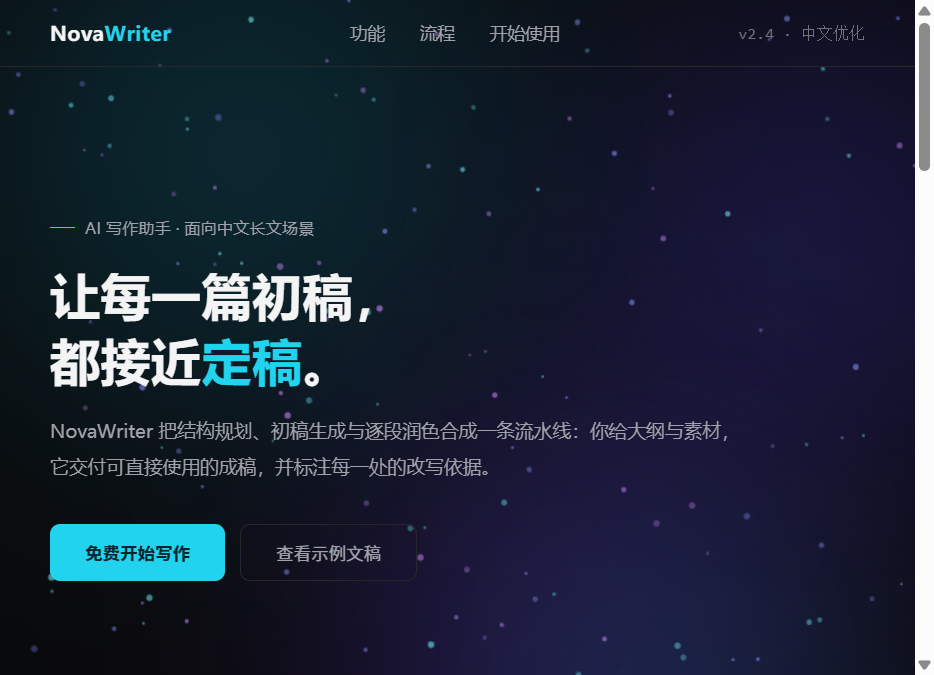
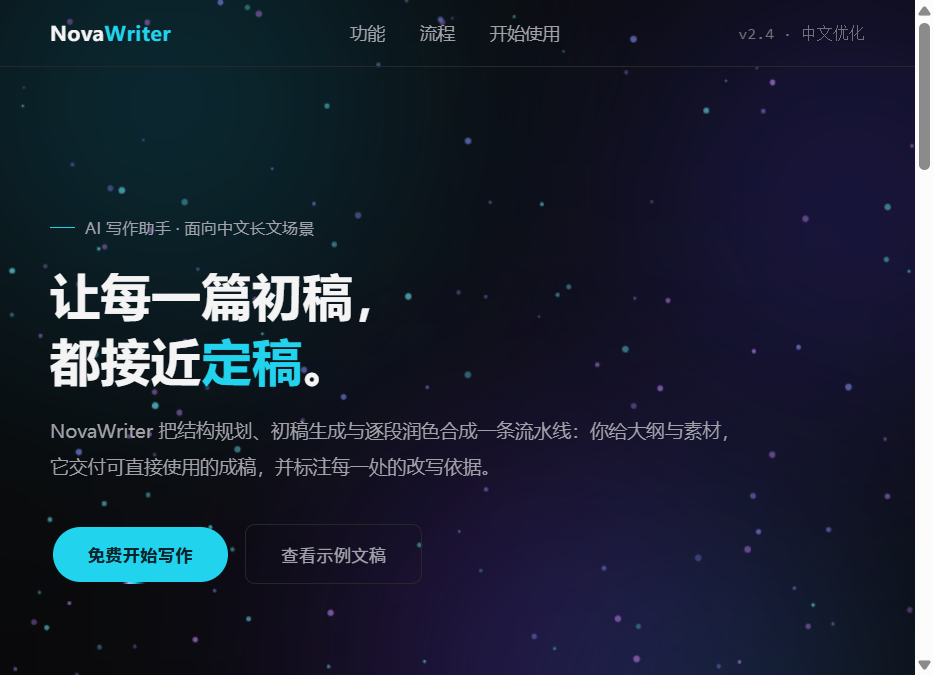
feat: after 页补齐 React Bits 五类组件等效 + 新增分类覆盖度规则
- after 页新增：StarBorder 星光描边按钮 / SpotlightCard 聚光卡片 / AnimatedContent 分区块滚动进场（vanilla 等效）
- SKILL.md 整页构建 + recipes 通用规则新增「分类覆盖度自查」：整页交付须覆盖五大类中至少 4 类
- README 差异拆解表扩充至 10 行，覆盖五大类对应关系
- after 截图更新为 1440 极光版

diff --git a/demo/comparison/after.html b/demo/comparison/after.html
@@ -27,7 +27,7 @@
   @keyframes drift3 { to { transform: translate(90px, -110px) scale(1.15); } }
   #bg canvas { position: absolute; inset: 0; width: 100%; height: 100%; display: block; }
   #bg .veil { position: absolute; inset: 0; background: rgba(9, 9, 11, .3); }
-  @media (prefers-reduced-motion: reduce) { .blob { animation: none; } .blobs { transition: none; } }
+  @media (prefers-reduced-motion: reduce) { .blob { animation: none; } .blobs { transition: none; } .star::before { animation: none; opacity: .5; } [data-reveal] { opacity: 1; transform: none; } }
   .page { position: relative; z-index: 1; }
 
   .nav { display: flex; justify-content: space-between; align-items: center; padding: 16px 40px; border-bottom: 1px solid var(--line); }
@@ -50,6 +50,21 @@
   .btn-primary:hover { filter: brightness(1.1); }
   .btn-ghost { background: transparent; color: var(--muted); border: 1px solid var(--line); padding: 12px 28px; border-radius: 8px; font-size: 14px; cursor: pointer; }
   .btn-ghost:hover { color: var(--text); border-color: var(--dim); }
+
+  /* 按钮强调：React Bits「Star Border」等效（星光沿轮廓巡游） */
+  .star { position: relative; display: inline-flex; padding: 2px; border-radius: 999px; overflow: hidden; }
+  .star::before { content: ""; position: absolute; inset: -60%; background: conic-gradient(from 0deg, transparent 0deg 318deg, #22d3ee 340deg, #a5b4fc 350deg, transparent 360deg); animation: starSpin 4s linear infinite; }
+  .star .btn-primary { position: relative; z-index: 1; border-radius: 999px; }
+  @keyframes starSpin { to { transform: rotate(360deg); } }
+
+  /* 卡片聚光：React Bits「Spotlight Card」等效（光斑跟随指针） */
+  .spot { position: relative; overflow: hidden; }
+  .spot::before { content: ""; position: absolute; inset: 0; background: radial-gradient(280px circle at var(--mx, 50%) var(--my, 50%), rgba(34, 211, 238, .13), transparent 70%); opacity: 0; transition: opacity .25s; pointer-events: none; }
+  .spot:hover::before { opacity: 1; }
+
+  /* 分区块滚动进场：React Bits「Animated Content」等效（块级，非逐卡） */
+  [data-reveal] { opacity: 0; transform: translateY(26px); transition: opacity .7s ease, transform .7s cubic-bezier(.2, .8, .2, 1); }
+  [data-reveal].in { opacity: 1; transform: none; }
 
   /* 数据条：React Bits「Count Up」等效（进入视口滚动计数） */
   .stats { display: grid; grid-template-columns: repeat(4, 1fr); gap: 16px; max-width: 1040px; margin: 0 auto; padding: 0 40px 88px; }
@@ -106,12 +121,12 @@
       </h1>
       <p class="sub">NovaWriter 把结构规划、初稿生成与逐段润色合成一条流水线：你给大纲与素材，它交付可直接使用的成稿，并标注每一处的改写依据。</p>
       <div class="btns">
-        <button class="btn-primary">免费开始写作</button>
+        <span class="star"><button class="btn-primary">免费开始写作</button></span>
         <button class="btn-ghost">查看示例文稿</button>
       </div>
     </header>
 
-    <div class="stats">
+    <div class="stats" data-reveal>
       <div class="stat"><b class="mono" data-count="42" data-suffix=" 秒">0 秒</b><span>千字初稿平均耗时</span></div>
       <div class="stat"><b class="mono" data-count="60" data-prefix="-" data-suffix="%">-0%</b><span>返工修改轮次</span></div>
       <div class="stat"><b class="mono" data-count="12" data-suffix=" 万">0 万</b><span>月活写作者</span></div>
@@ -121,18 +136,18 @@
     <section class="section" id="features">
       <h2>为长文写作设计的三件事</h2>
       <p class="sub">不做万能生成器，只把中文长文里最耗时的三段流程做透。</p>
-      <div class="features">
-        <div class="feature">
+      <div class="features" data-reveal>
+        <div class="feature spot">
           <span class="tag">核心</span>
           <h3>结构先行的成稿流水线</h3>
           <p>先与你确认大纲与论点顺序，再逐段生成。每段附「写作意图」标注：哪句是事实引用、哪句是论证展开、哪句建议你亲自改写——初稿不再是一团需要重新拆解的墨迹。</p>
         </div>
-        <div class="feature">
+        <div class="feature spot">
           <span class="tag">协作</span>
           <h3>逐段批注式润色</h3>
           <p>像编辑一样在段落旁给出改写建议，接受或驳回均会回写训练偏好。</p>
         </div>
-        <div class="feature wide">
+        <div class="feature spot wide">
           <span class="tag">溯源</span>
           <h3>每一句都有出处</h3>
           <p>所有事实性陈述强制挂载引用来源，点击即可核验原文。没有来源的句子会被明确标记为「AI 推断」，而不是混在正文里冒充事实——这是我们把「可信」放在「流畅」前面的原因。</p>
@@ -143,7 +158,7 @@
     <section class="section" id="how">
       <h2>三步上手</h2>
       <p class="sub">从空白文档到可交付初稿，平均一次会话内完成。</p>
-      <div class="steps">
+      <div class="steps" data-reveal>
         <div class="step"><span class="no">STEP 1</span><h3>投喂素材</h3><p>粘贴资料、拖入文档或只给一句话主题，自动整理为结构化大纲。</p></div>
         <div class="step"><span class="no">STEP 2</span><h3>确认大纲</h3><p>拖拽调整章节顺序与详略权重，AI 按你确认的结构展开成稿。</p></div>
         <div class="step"><span class="no">STEP 3</span><h3>逐段定稿</h3><p>在批注模式下逐段接受润色，导出为 Markdown / Word / 公众号格式。</p></div>
@@ -153,12 +168,12 @@
     <section class="cta" id="cta">
       <h2>今天就把下一份长文交给它</h2>
       <p>免费额度无需绑定支付方式，导出不加锁。</p>
-      <button class="btn-primary">免费开始写作</button>
+      <span class="star"><button class="btn-primary">免费开始写作</button></span>
     </section>
 
     <footer>
       <span>© 2026 NovaWriter</span>
-      <span class="credit">动效由 React Bits 组件驱动：<a href="https://www.reactbits.dev/backgrounds/particles">Particles</a> · <a href="https://www.reactbits.dev/text-animations/decrypted-text">DecryptedText</a> · <a href="https://www.reactbits.dev/text-animations/count-up">CountUp</a>（本页为静态等效演示）</span>
+      <span class="credit">动效由 React Bits 组件驱动：<a href="https://www.reactbits.dev/backgrounds/particles">Particles</a> · <a href="https://www.reactbits.dev/text-animations/decrypted-text">DecryptedText</a> · <a href="https://www.reactbits.dev/text-animations/count-up">CountUp</a> · <a href="https://www.reactbits.dev/animations/animated-content">AnimatedContent</a> · <a href="https://www.reactbits.dev/animations/star-border">StarBorder</a> · <a href="https://www.reactbits.dev/components/spotlight-card">SpotlightCard</a>（本页为静态等效演示）</span>
     </footer>
   </div>
 
@@ -260,6 +275,23 @@
     });
   }, { threshold: .6 });
   document.querySelectorAll('[data-count]').forEach(function (el) { io.observe(el); });
+
+  /* ---- 卡片聚光（SpotlightCard 等效）：光斑跟随指针 ---- */
+  document.querySelectorAll('.spot').forEach(function (el) {
+    el.addEventListener('mousemove', function (e) {
+      var r = el.getBoundingClientRect();
+      el.style.setProperty('--mx', (e.clientX - r.left) + 'px');
+      el.style.setProperty('--my', (e.clientY - r.top) + 'px');
+    });
+  });
+
+  /* ---- 分区块滚动进场（AnimatedContent 等效，块级） ---- */
+  var ro = new IntersectionObserver(function (entries) {
+    entries.forEach(function (e) {
+      if (e.isIntersecting) { e.target.classList.add('in'); ro.unobserve(e.target); }
+    });
+  }, { threshold: .15 });
+  document.querySelectorAll('[data-reveal]').forEach(function (el) { ro.observe(el); });
 })();
 </script>
 </body>

diff --git a/README.md b/README.md
@@ -42,7 +42,11 @@ AI 写 React 动效页面有三大高频翻车点：
 | 万物皆卡片：同圆角 + 同阴影 + 同尺寸三栏 | 卡片只用于真分组，非对称 3:2 栅格，零阴影 | layout-guide · 黑名单 #4 + 间距细则 |
 | 全大写 eyebrow 挂每个标题 + 无意义大数字 01/02/03 | 元信息语义化；流程确为序列才用行内小序号 | layout-guide · 黑名单 #2/#3 |
 | `10k+ · 1M+ · 99%` 中点串与泛泛数字 | 数据条 4 项均带可验证的具体口径 | layout-guide · 黑名单 #5 |
-| 动效：无重点或过度装饰 | 全页唯一焦点动效 = 标题解密入场 + 粒子极光氛围背景 | layout-guide · 黑名单 #6 + "大胆只用在一处" |
+| 动效：无重点或过度装饰 | 全页唯一焦点动效 = 标题解密入场，星云极光做氛围 | layout-guide · 黑名单 #6 + "大胆只用在一处" |
+| 按钮是静态渐变色块 | 星光沿按钮轮廓巡游（Star Border 等效） | interactions · 按钮强调类 |
+| 内容进场无节奏 | 分区块滚动进场，块级不逐卡（Animated Content 等效） | interactions · 转场类 |
+| 卡片零交互反馈 | 聚光光斑跟随指针（Spotlight Card 等效） | interactions · 组件类 |
+| 数据是写死的静态数字 | 进入视口滚动计数（Count Up 等效） | interactions · 微交互类 |
 
 打开 [demo/comparison/before.html](demo/comparison/before.html) 与 [demo/comparison/after.html](demo/comparison/after.html) 可在浏览器中直接对比（after 页含标题解密与极光视差动效，截图截不出来的部分更有感）。
 

diff --git a/SKILL.md b/SKILL.md
@@ -126,6 +126,7 @@ npx jsrepo@latest add https://reactbits.dev/r/<CliId>-<VARIANT>
 
 - 分层预算：背景 ×1 + 主视觉 ×1~2 + 内容区 ×2~3 + 微交互点缀，**不要超配**
 - 一屏最多 1 个焦点动效，其余做氛围
+- **分类覆盖度自查**：整页交付应体现 React Bits 五大类中的至少 4 类（背景 / 文本动画 / 动画 / 组件 / 微交互）—— 只换背景不叫完整交付，避免"背景高级了但正文还是静态半成品"
 - 优先套用 `references/recipes.md` 中现成配方（SaaS 落地页 / 个人作品集 / 产品发布页）
 - **骨架与排版遵循 `references/layout-guide.md`**（骨架配方 + 8pt 间距 + 字阶 + 反模板黑名单）
 - 用户使用 Next.js 且明确要"完整可部署模板"时，可提及 React Bits Pro（其中有免费作品集模板），但不要主动推销

diff --git a/references/recipes.md b/references/recipes.md
@@ -98,6 +98,7 @@ export default function Landing() {
 4. 移动端：光标类与 WebGL 类按 pitfalls.md 降级
 5. 每完成一层 → build/preview → 浏览器实测（见 SKILL.md Step 5）
 6. **背景全局挂载**：单页滚动站的背景用 `fixed inset-0` 挂在页面根层 + 轻遮罩（如 `bg-zinc-950/55`），滚动全程可见；挂在某个 section 内会"滚过即消失"。注意 fixed 元素不要用 `-z-10` 压进父级底色之下，遮罩放背景容器内部
+7. **分类覆盖度**：整页交付至少覆盖五大类中的 4 类（背景 / 文本动画 / 动画 / 组件 / 微交互），与页面类型强度匹配（见 interactions.md）—— 只升级背景属于半成品
 
 ## 排版参数（骨架/间距/字阶，规则详见 layout-guide.md）
 
